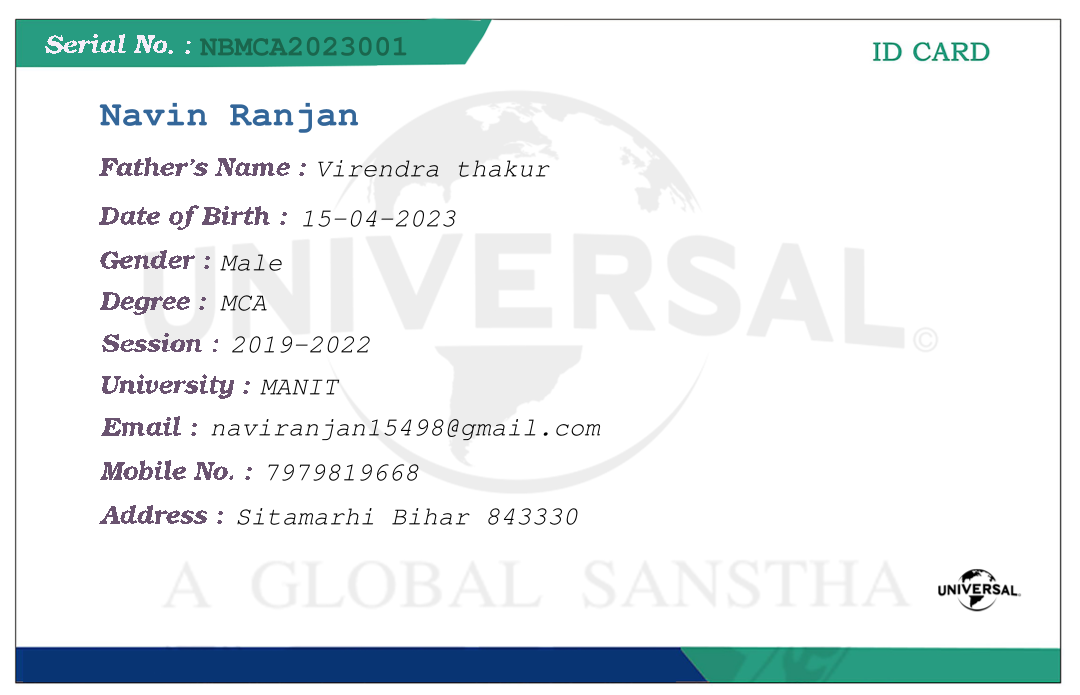
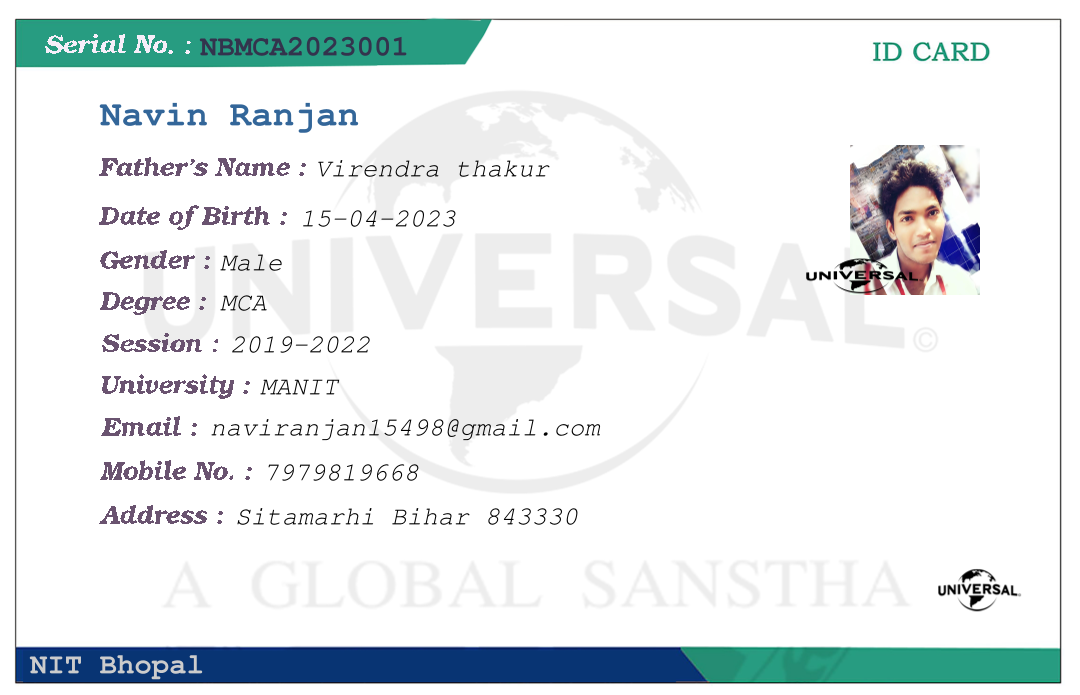
pdf implemented done with student pic

Changed region(s): [[0.7333, 0.2115, 0.9167, 0.423], [0.1833, 0.0302, 0.3667, 0.0906], [0.0306, 0.9367, 0.1833, 0.9971]]

diff --git a/idcard-service/src/main/java/com/idcard/school/serviceImpl/IDCardSystemServiceImpl.java b/idcard-service/src/main/java/com/idcard/school/serviceImpl/IDCardSystemServiceImpl.java
@@ -1,7 +1,9 @@
 package com.idcard.school.serviceImpl;
 
 import java.awt.image.BufferedImage;
+import java.io.ByteArrayOutputStream;
 import java.io.File;
+import java.util.Arrays;
 import java.util.List;
 import java.util.Map;
 
@@ -14,6 +16,7 @@ import org.apache.pdfbox.pdmodel.PDPage;
 import org.apache.pdfbox.pdmodel.PDPageContentStream;
 import org.apache.pdfbox.pdmodel.PDPageContentStream.AppendMode;
 import org.apache.pdfbox.pdmodel.font.PDType1Font;
+import org.apache.pdfbox.pdmodel.graphics.image.PDImageXObject;
 import org.apache.pdfbox.rendering.PDFRenderer;
 import org.springframework.stereotype.Service;
 
@@ -50,13 +53,6 @@ public class IDCardSystemServiceImpl implements IDCardSystemService{
 	@Override
 	public IDCardWrapper createIdcard(IDCardWrapper idCardWrapper) {
 		logger.info("Insider the createIdcard method with entity value : {} ", idCardWrapper.toString());
-		//code
-		return null;
-	}
-	
-	public static IDCardWrapper createIdcardadd(IDCardWrapper idCardWrapper) {
-		logger.info("Insider the createIdcard method with entity value : {} ", idCardWrapper.toString());
-		
 		try {
 			PDDocument document = PDDocument.load(new File("src/main/java/com/idcard/school/idcard.pdf"));
 
@@ -129,6 +125,9 @@ public class IDCardSystemServiceImpl implements IDCardSystemService{
 	        contentStream.showText(idCardWrapper.getSerialNumber());
 	        contentStream.endText();
 	        
+	        
+	        //contentStream.d
+	        
 //	        contentStream.beginText();
 //	        
 	//
@@ -155,6 +154,150 @@ public class IDCardSystemServiceImpl implements IDCardSystemService{
 	        // Close the document
 	        document.close();
 
+	        System.out.println("Conversion complete.");
+			//code
+			
+		} catch (Exception e) {
+			// TODO: handle exception
+		}
+		return null;
+	}
+	
+	public static IDCardWrapper createIdcardadd(IDCardWrapper idCardWrapper) {
+		logger.info("Insider the createIdcard method with entity value : {} ", idCardWrapper.toString());
+		
+		try {
+			PDDocument document = PDDocument.load(new File("src/main/java/com/idcard/school/idcard.pdf"));
+
+	        // Get the first page
+	        PDPage page = document.getPage(0);
+
+	        // Create a content stream to write on the page
+	        PDPageContentStream contentStream = new PDPageContentStream(document, page,AppendMode.APPEND,true);
+	        
+	        BufferedImage image = ImageIO.read(new File("src/main/java/com/idcard/school/pic.jpg"));
+	        ByteArrayOutputStream baos = new ByteArrayOutputStream();
+            ImageIO.write(image, "jpg", baos);
+            byte[] byteArray = baos.toByteArray();
+	        PDImageXObject imageXObject = PDImageXObject.createFromByteArray(document, byteArray, "image");
+	        
+	        BufferedImage imageSign = ImageIO.read(new File("src/main/java/com/idcard/school/universal.png"));
+
+            // Convert the image to a byte array
+          
+            
+           ByteArrayOutputStream baosSign = new ByteArrayOutputStream();
+            ImageIO.write(imageSign, "png", baosSign);
+           byte[] byteArraysign = baosSign.toByteArray();
+            
+            System.out.println(Arrays.toString(byteArray));
+            System.out.println(Arrays.toString(byteArraysign));
+            
+            
+            PDImageXObject imageXObject1 = PDImageXObject.createFromByteArray(document, byteArraysign, "image");
+
+	        contentStream.setFont(PDType1Font.COURIER_OBLIQUE, 26);
+	        // Modify the content of the page
+	        contentStream.beginText();
+	        contentStream.newLineAtOffset(315,519);
+	        contentStream.showText(idCardWrapper.getFatherName());
+	        contentStream.endText();
+	        
+	        contentStream.beginText();
+	        contentStream.newLineAtOffset(300,469);
+	        contentStream.showText(idCardWrapper.getDob());
+	        contentStream.endText();
+	        
+	        contentStream.beginText();
+	        contentStream.newLineAtOffset(220,425);
+	        contentStream.showText(idCardWrapper.getGender());
+	        contentStream.endText();
+	        
+	        contentStream.beginText();
+	        contentStream.newLineAtOffset(220,385);
+	        contentStream.showText(idCardWrapper.getDegree());
+	        contentStream.endText();
+	        
+	        contentStream.beginText();
+	        contentStream.newLineAtOffset(230,343);
+	        contentStream.showText(idCardWrapper.getSession());
+	        contentStream.endText();
+	        
+	        contentStream.beginText();
+	        contentStream.newLineAtOffset(260, 301);
+	        contentStream.showText(idCardWrapper.getUniversityName());
+	        contentStream.endText();
+	        
+	        	        
+	        contentStream.beginText();
+	        contentStream.newLineAtOffset(210, 260);
+	        contentStream.showText(idCardWrapper.getEmail());
+	        contentStream.endText();
+	        
+	        contentStream.beginText();
+	        contentStream.newLineAtOffset(263, 215);
+	        contentStream.showText(idCardWrapper.getMobile());
+	        contentStream.endText();
+	        
+	        contentStream.beginText();
+	        contentStream.newLineAtOffset(235, 171);
+	        contentStream.showText(idCardWrapper.getAddress());
+	        contentStream.endText();
+	        
+	        
+	        contentStream.drawImage(imageXObject, 850, 400, 130, 150);
+	        contentStream.drawImage(imageXObject1, 800, 400, 125, 40);
+	        
+	        
+	        contentStream.setFont(PDType1Font.COURIER_BOLD, 29);
+	        contentStream.setNonStrokingColor(0.800f, 0.800f,0.800f);
+	        contentStream.beginText();
+	        contentStream.newLineAtOffset(30,22);
+	        contentStream.showText(idCardWrapper.getCollegeName());
+	        contentStream.endText();
+	        
+	        contentStream.setFont(PDType1Font.COURIER_BOLD, 36);
+	        contentStream.setNonStrokingColor(0.200f, 0.400f,0.600f);
+	        contentStream.beginText();
+	        contentStream.newLineAtOffset(100, 570);
+	        contentStream.showText(idCardWrapper.getName());
+	        contentStream.endText();
+	        
+	        contentStream.setFont(PDType1Font.COURIER_BOLD, 29);
+	        contentStream.setNonStrokingColor(0.200f, 0.200f,0.300f);
+	        contentStream.beginText();
+	        contentStream.newLineAtOffset(200, 640);
+	        contentStream.showText(idCardWrapper.getSerialNumber());
+	        contentStream.endText();
+	        
+//	        contentStream.beginText();
+//	        
+	//
+//	        contentStream.endText();
+	        
+	        
+
+	        System.out.println(contentStream);
+	        
+	        // Close the content stream
+	        contentStream.close();
+
+	        PDFRenderer pd = new PDFRenderer(document);
+	        //BufferedImage bufferedImage = pd.renderImageWithDPI(0, 100); // 300 DPI
+	        BufferedImage bufferedImage=pd.renderImage(0);
+
+	        // Convert the modified page to a BufferedImage
+	        //BufferedImage bufferedImage = page.convertToImage(BufferedImage.TYPE_INT_RGB, 300);
+	       
+
+	        System.out.println(bufferedImage);
+	        System.out.println(Arrays.toString(byteArray));
+	        // Save the BufferedImage to a file
+	        ImageIO.write(bufferedImage, "png", new File("src/main/java/com/idcard/school/output.png"));
+
+	        // Close the document
+	        document.close();
+	        System.out.println(Arrays.toString(byteArray));
 	        System.out.println("Conversion complete.");
 			//code
 			
